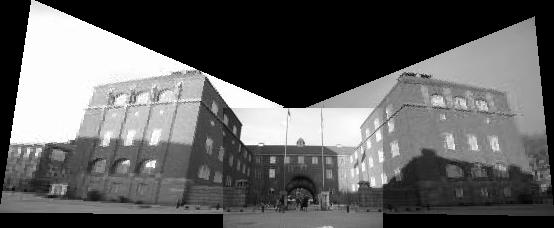
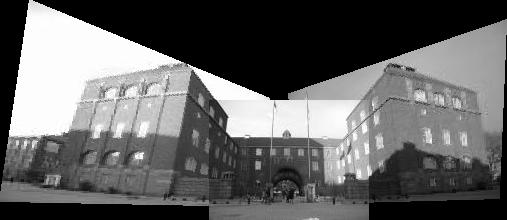
lab1 prob done

diff --git a/functions/exercise1_panorama.m b/functions/exercise1_panorama.m
@@ -26,16 +26,24 @@ else
     save( points2d_file, 'points2d' );
 end
 
-
+%% Normalize Points
+points2d_norm = points2d;
+norm_mat = compute_normalization_matrices(points2d);
+for c = 1:CAMERAS
+    points2d_norm(:,:,c) = norm_mat(:,:,c) * points2d(:,:,c);
+end
+% Inverse Reference Normalization Matrix
+N_inv_ref = inv(norm_mat(:,:,REFERENCE_VIEW));
 %% Compute homographies
 % Determine all homographies to a reference view. We have:
 % point in REFERENCE_VIEW = homographies(:,:,c) * point in image c.
 % Remember, you have to set homographies{REFERENCE_VIEW} as well.
+
 homographies = zeros(3,3,CAMERAS); 
 
-points_ref = points2d(:,:,REFERENCE_VIEW);
+points_ref = points2d_norm(:,:,REFERENCE_VIEW);
 for c = 1:CAMERAS
-    homographies(:,:,c) = compute_homography( points_ref, points2d(:,:,c) );
+    homographies(:,:,c) = N_inv_ref * compute_homography( points_ref, points2d_norm(:,:,c) ) * norm_mat(:,:,c);
 end
 
 for c = 1:CAMERAS

diff --git a/functions/compute_normalization_matrices.m b/functions/compute_normalization_matrices.m
@@ -47,11 +47,12 @@ end
 norm_mat = zeros(3,3,cam);
 for c = 1 : cam
     factor = sqrt(2)/d(c);
-    norm_mat(1,1,c) = factor;
-    norm_mat(2,2,c) = factor;
-    norm_mat(3,3,c) = 1;
+    norm_mat(1,1,c) = 1;
+    norm_mat(2,2,c) = 1;
     norm_mat(1,3,c) = -p_mean(1,1,c);
     norm_mat(2,3,c) = -p_mean(2,1,c);
+    norm_mat(:,:,c) = norm_mat(:,:,c).*factor;
+    norm_mat(3,3,c) = 1;
 end
 
 
